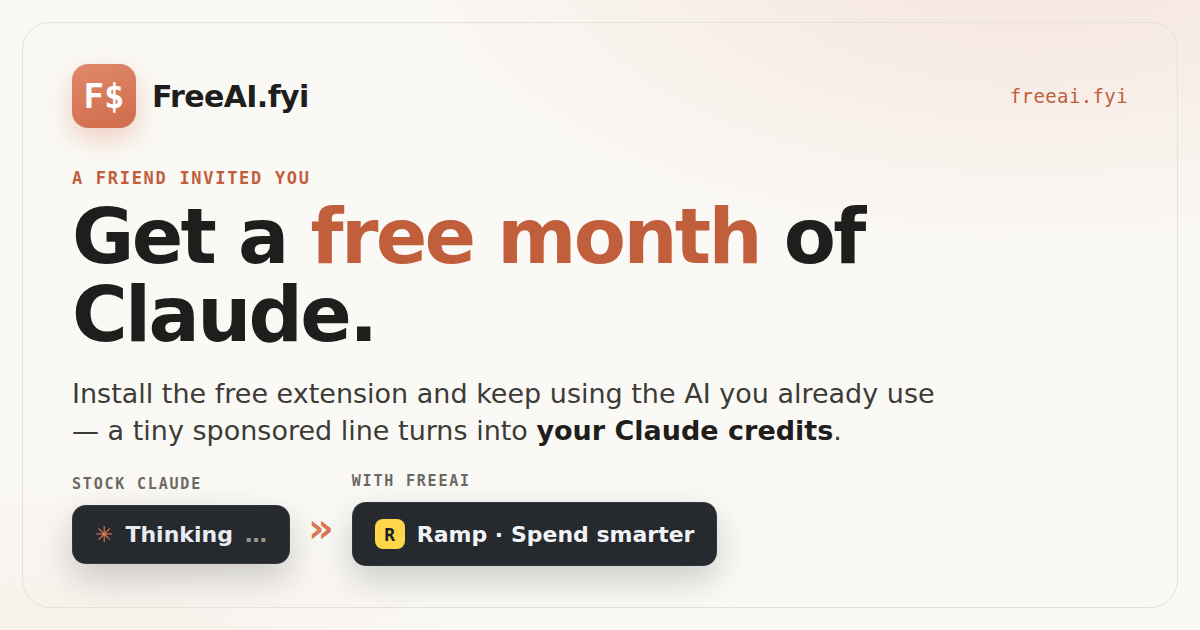
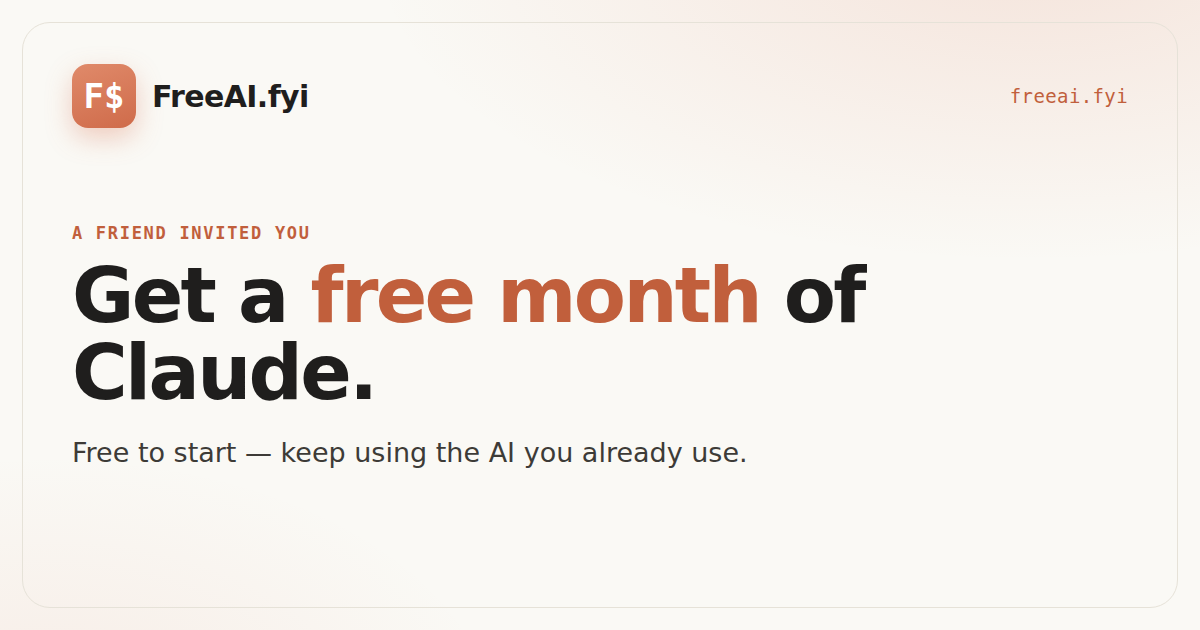
Simplify the referral preview card
Drop the before/after demo and the desktop-specific "install the extension"
wording: the invite card is now just the logo, "A friend invited you", a
centered "Get a free month of Claude" headline and one short device-agnostic
line. gen-og.mjs gains a per-card `demo` flag (default true; og.png unchanged)
that swaps in a vertically centered demo-less layout. redeem.html's og/twitter
descriptions match the simpler copy.

Note: link previews are one image per URL — the sharing platform's crawler
picks it; it can't vary by the recipient's device — so this single 1200x630
card is what shows on both mobile and desktop.

Claude-Session: https://claude.ai/code/session_011dx4WA2DhqKRhCqaya29Pf

Changed region(s): [[0.0617, 0.3317, 0.7708, 0.9349], [0.0617, 0.2714, 0.2775, 0.3016]]

diff --git a/redeem.html b/redeem.html
@@ -32,7 +32,7 @@
   <meta property="og:url" content="https://freeai.fyi/redeem" />
   <meta property="og:locale" content="en_US" />
   <meta property="og:title" content="Get a free month of Claude — a friend invited you to FreeAI" />
-  <meta property="og:description" content="Install the free extension and keep using the AI you already use. A subtle sponsored line shows while it thinks, and the revenue becomes your Claude credits." />
+  <meta property="og:description" content="Free to start — keep using the AI you already use, and a tiny sponsored line turns into your Claude credits." />
   <meta property="og:image" content="https://freeai.fyi/og-referral.png?v=20260621" />
   <meta property="og:image:secure_url" content="https://freeai.fyi/og-referral.png?v=20260621" />
   <meta property="og:image:type" content="image/png" />
@@ -41,7 +41,7 @@
   <meta property="og:image:alt" content="A friend invited you to FreeAI — install the free extension and get a free month of Claude." />
   <meta name="twitter:card" content="summary_large_image" />
   <meta name="twitter:title" content="Get a free month of Claude — a friend invited you to FreeAI" />
-  <meta name="twitter:description" content="Install the free extension and keep using the AI you already use. A subtle sponsored line shows while it thinks, and the revenue becomes your Claude credits." />
+  <meta name="twitter:description" content="Free to start — keep using the AI you already use, and a tiny sponsored line turns into your Claude credits." />
   <meta name="twitter:image" content="https://freeai.fyi/og-referral.png?v=20260621" />
   <meta name="twitter:image:alt" content="A friend invited you to FreeAI — install the free extension and get a free month of Claude." />
   <link rel="preconnect" href="https://fonts.googleapis.com" />